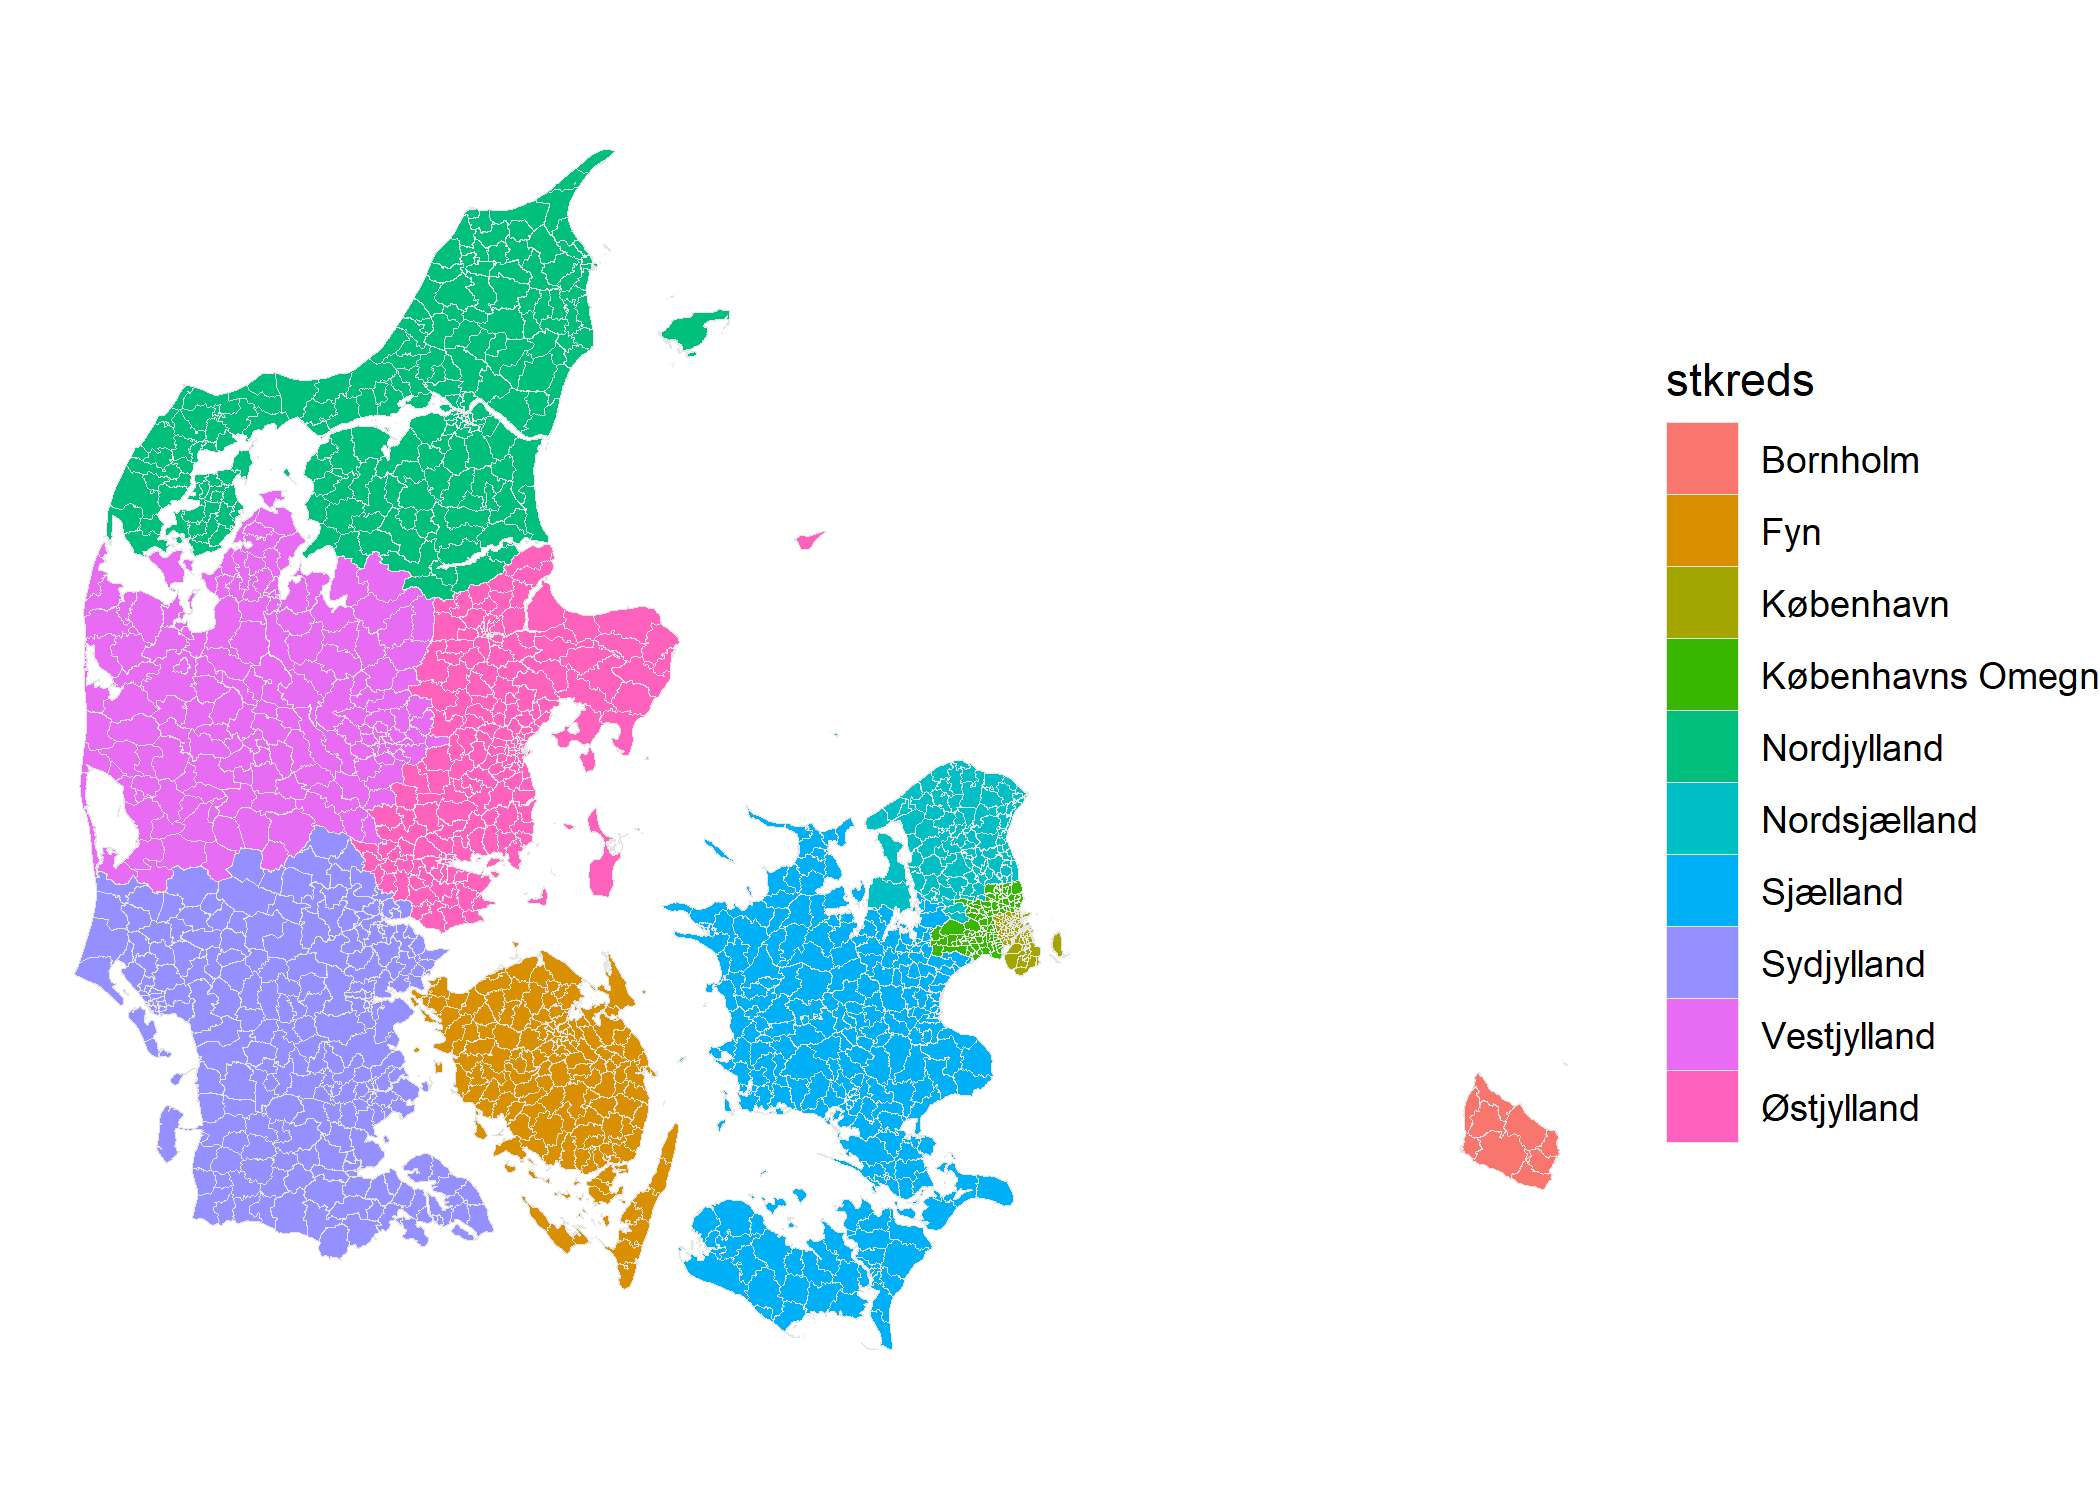
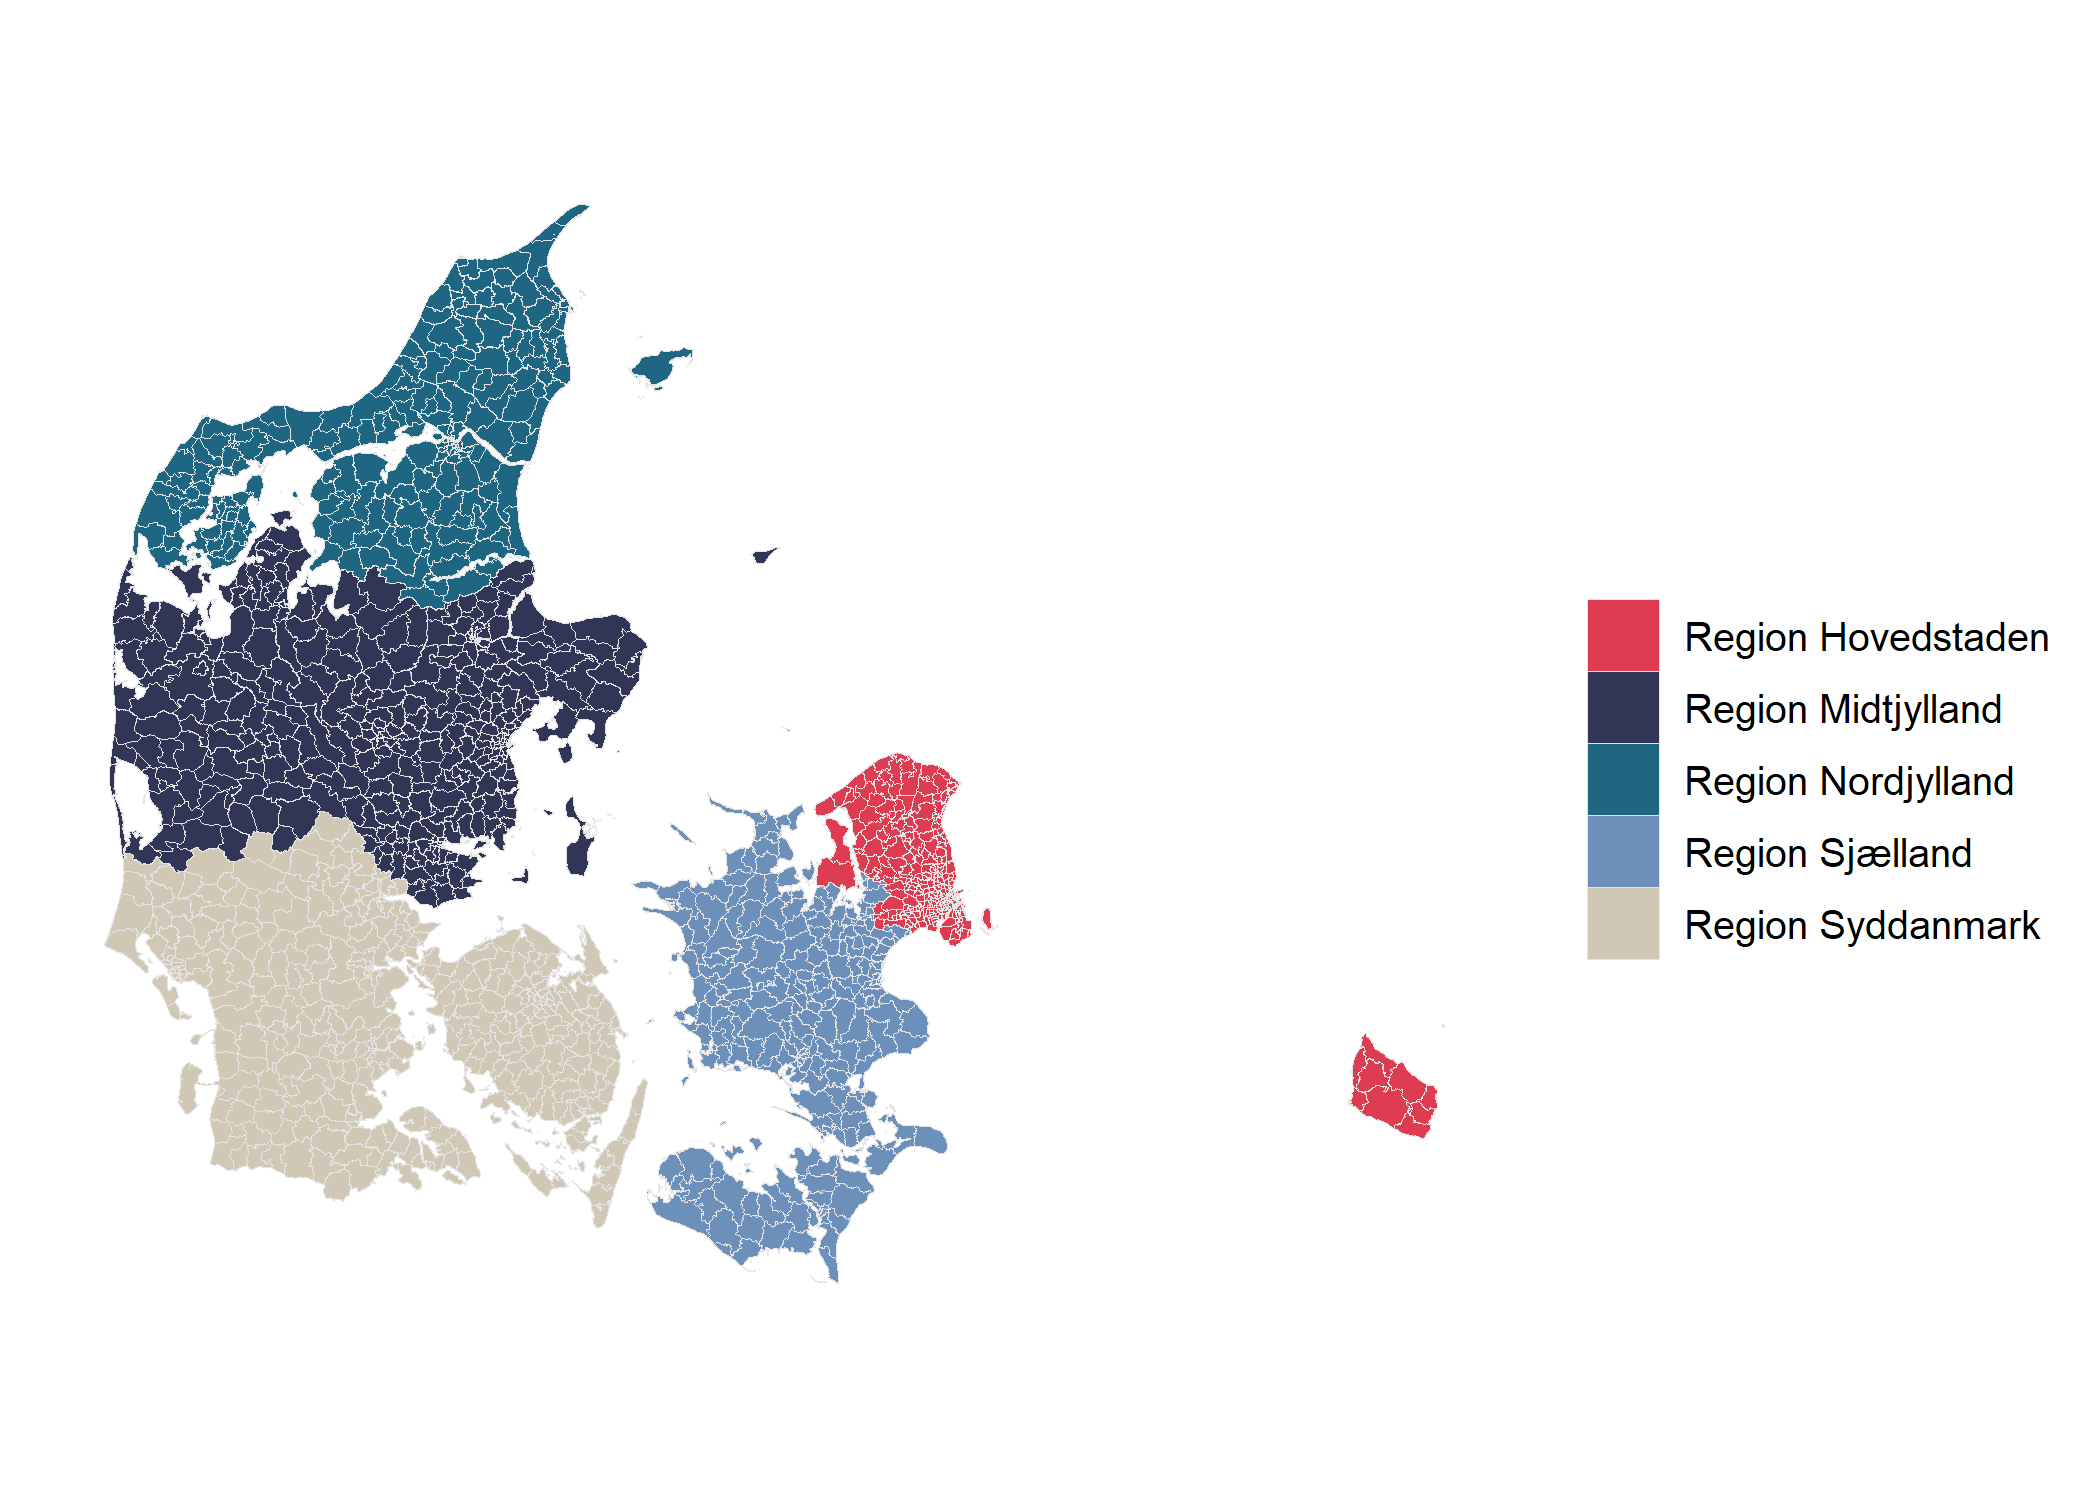
RMD

diff --git a/README.md b/README.md
@@ -79,12 +79,13 @@ library(ggpubr)
 df %>% 
   #filter(stkreds %in% c("København", "Københavns Omegn")) %>% 
   ggplot(data = .) +
-  geom_sf(aes(fill = stkreds),
+  geom_sf(aes(fill = regi),
           color = "grey90",
           size = .0000000001) +
-  # scale_fill_manual(values = Manu::get_pal("Takahe"),
-  #                     name = "") +
-  theme_void()
+  scale_fill_manual(values = Manu::get_pal("Takahe"),
+                      name = "") +
+  theme_void() +
+  ggpubr::theme_transparent()
 ```
 
 <img src="man/figures/README-unnamed-chunk-5-1.png" width="85%" style="display: block; margin: auto;" />
